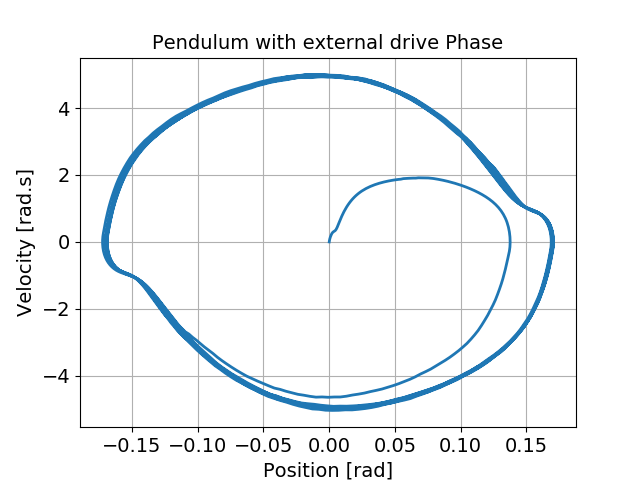
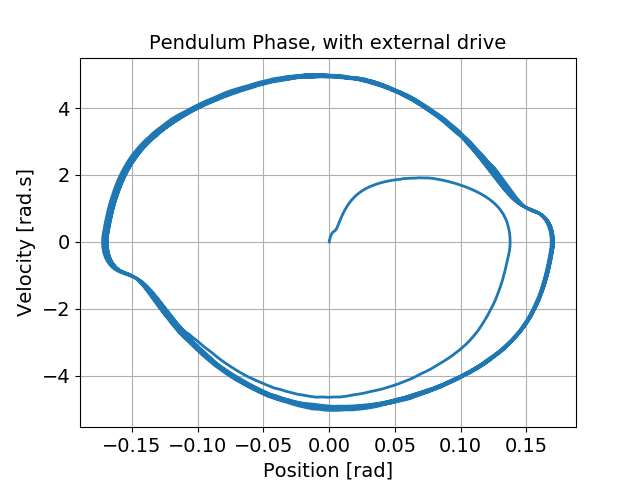
UPDATE figure 3b1

Changed region(s): [[0.2188, 0.0625, 0.7812, 0.125]]

diff --git a/Project2/Python/exercise3.py b/Project2/Python/exercise3.py
@@ -156,7 +156,7 @@ def exercise3():
     plt.grid
     
     plt.figure('Pendulum with external drive')
-    plt.title('Pendulum with external drive Phase')
+    plt.title('Pendulum Phase, with external drive')
     plt.plot(res2[:, 1], res2[:, 2])
     plt.xlabel('Position [rad]')
     plt.ylabel('Velocity [rad.s]')

diff --git a/Project1/Python/exercise1.py b/Project1/Python/exercise1.py
@@ -306,7 +306,7 @@ def exercise1d():
 
 
 def exercise1():
-    #exercise1a()
+    exercise1a()
     exercise1d()
 
     if DEFAULT["save_figures"] is False:
